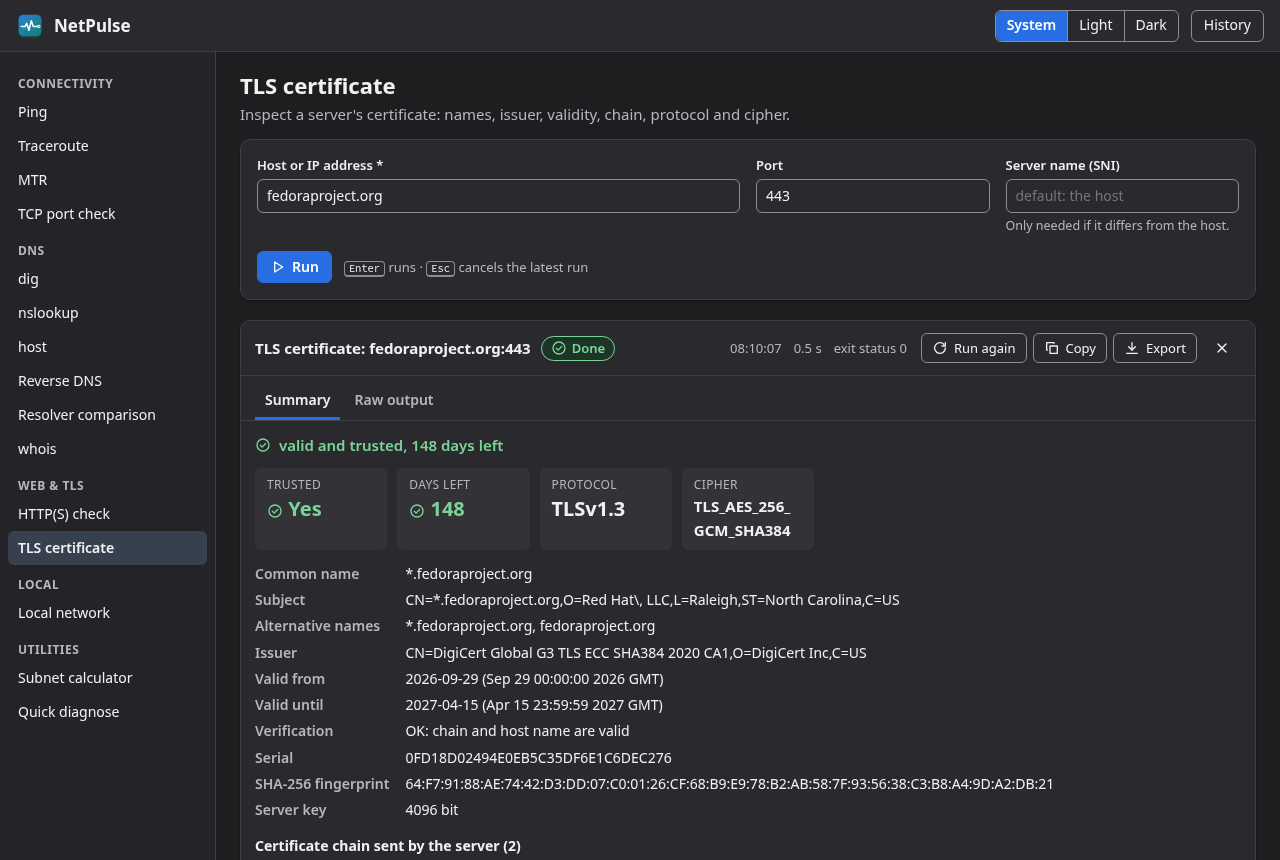
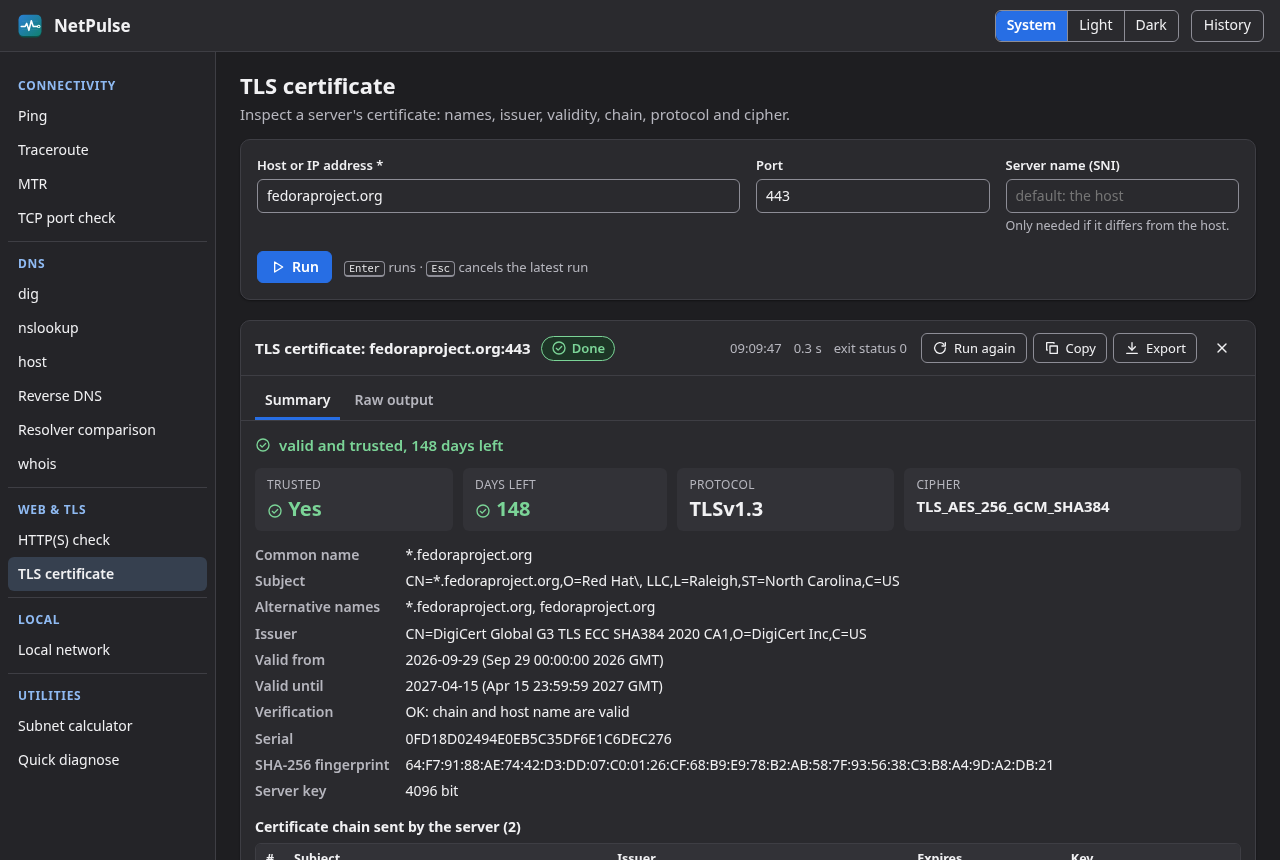
style(theme): soft earthy pastel palette for the light theme
Sand, cream and clay surfaces with terracotta accents, sage/ochre/brick
status colours and a slate-teal chart line. Less bright than before; every
colour pair still meets WCAG 2.1 AA (contrast test). README screenshots
updated.

diff --git a/src/netpulse/static/css/app.css b/src/netpulse/static/css/app.css
@@ -9,44 +9,45 @@
 /* ------------------------------------------------------------------ tokens */
 :root,
 :root[data-theme="light"] {
+  /* "Semi-light" earth palette: sand, clay, terracotta, sage, ochre. Muted, not bright. */
   color-scheme: light;
-  --bg: #f6f5f4;
-  --surface: #ffffff;
-  --surface-2: #f3f3f4;
-  --sidebar-bg: #ebebed;
-  --sidebar-hover: #e0e0e3;
-  --sidebar-active: #d6dbe3;
-  --sidebar-heading: #1a5fb4;
-  --border: #dcdcde;
-  --border-strong: #85858c;
-  --text: #1d1d20;
-  --text-muted: #55555c;
-  --accent: #1a5fb4;
-  --accent-hover: #164f96;
-  --accent-text: #ffffff;
-  --link: #1a5fb4;
-  --focus: #1a5fb4;
-  --ok: #1b6e37;
-  --ok-bg: #e3f3e8;
-  --warn: #7f4f00;
-  --warn-bg: #fdf0d8;
-  --err: #b0231b;
-  --err-bg: #fbe8e6;
-  --info: #1a5fb4;
-  --info-bg: #e5eefa;
-  --code-bg: #f7f7f8;
-  --code-text: #1d1d20;
-  --chart-line: #1a5fb4;
-  --chart-loss: #b0231b;
-  --chart-grid: #e2e2e5;
-  --chart-axis: #55555c;
-  --bar-1: #1a5fb4;
-  --bar-2: #8f4bb5;
-  --bar-3: #1b7a6e;
-  --bar-4: #a35b00;
-  --bar-5: #4a4a52;
-  --shadow: rgba(0, 0, 0, 0.08);
-  --backdrop: rgba(0, 0, 0, 0.35);
+  --bg: #e9e1d3;
+  --surface: #f4eee3;
+  --surface-2: #e9e0cf;
+  --sidebar-bg: #ddd2bd;
+  --sidebar-hover: #d3c6ae;
+  --sidebar-active: #cfc2a8;
+  --sidebar-heading: #793c23;
+  --border: #d2c4ab;
+  --border-strong: #7c6e57;
+  --text: #2e2820;
+  --text-muted: #514839;
+  --accent: #8b4a2f;
+  --accent-hover: #733b24;
+  --accent-text: #fbf6ee;
+  --link: #84442a;
+  --focus: #84442a;
+  --ok: #3f5c22;
+  --ok-bg: #dde3c6;
+  --warn: #714800;
+  --warn-bg: #eedcb4;
+  --err: #962e1d;
+  --err-bg: #efd2c6;
+  --info: #2c5861;
+  --info-bg: #d2dfdc;
+  --code-bg: #ede5d6;
+  --code-text: #2e2820;
+  --chart-line: #2c5861;
+  --chart-loss: #962e1d;
+  --chart-grid: #d8cbb5;
+  --chart-axis: #514839;
+  --bar-1: #2c5861;
+  --bar-2: #8b4a2f;
+  --bar-3: #556b26;
+  --bar-4: #8a5f12;
+  --bar-5: #6b4a66;
+  --shadow: rgba(70, 50, 25, 0.1);
+  --backdrop: rgba(45, 32, 20, 0.4);
 }
 
 :root[data-theme="dark"] {

diff --git a/CHANGELOG.md b/CHANGELOG.md
@@ -22,7 +22,7 @@ and this project adheres to [Semantic Versioning](https://semver.org/spec/v2.0.0
 - Live output over Server-Sent Events, cancelling, several jobs at once, Copy and export
   as TXT, JSON and Markdown.
 - Searchable run history with re-run, clear and a size limit.
-- Light, Dark and System themes with WCAG 2.1 AA contrast.
+- Light (soft earth tones), Dark and System themes with WCAG 2.1 AA contrast.
 - RPM spec, desktop file, AppStream metainfo, icons, man page and Packit configuration.
 
 [Unreleased]: https://github.com/agent-denis/netpulse/compare/v1.0.0...HEAD

diff --git a/README.md b/README.md
@@ -10,7 +10,7 @@ output live and turns it into an easy-to-read summary.
 
 - Runs locally, for one user. No account, no cloud, **no telemetry, no update checks**.
 - Works offline (apart from the network tests themselves). All assets ship in the package.
-- Light, Dark and System themes, WCAG 2.1 AA contrast, full keyboard use.
+- A soft, earthy light theme, a dark theme and System mode; WCAG 2.1 AA contrast, full keyboard use.
 - Opens in a native GTK window, or in your web browser if GTK/WebKit isn't installed.
 
 ## Features
